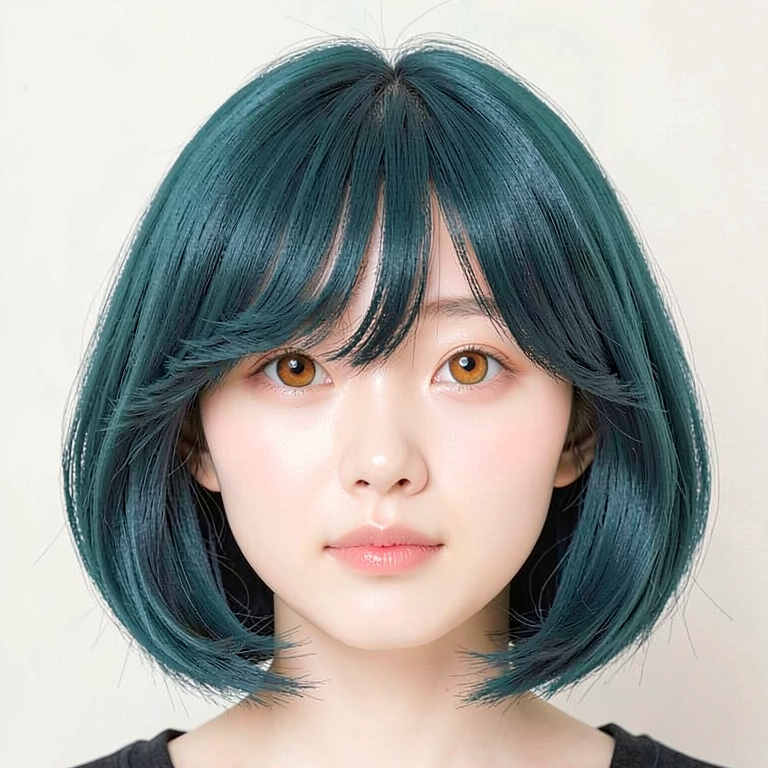
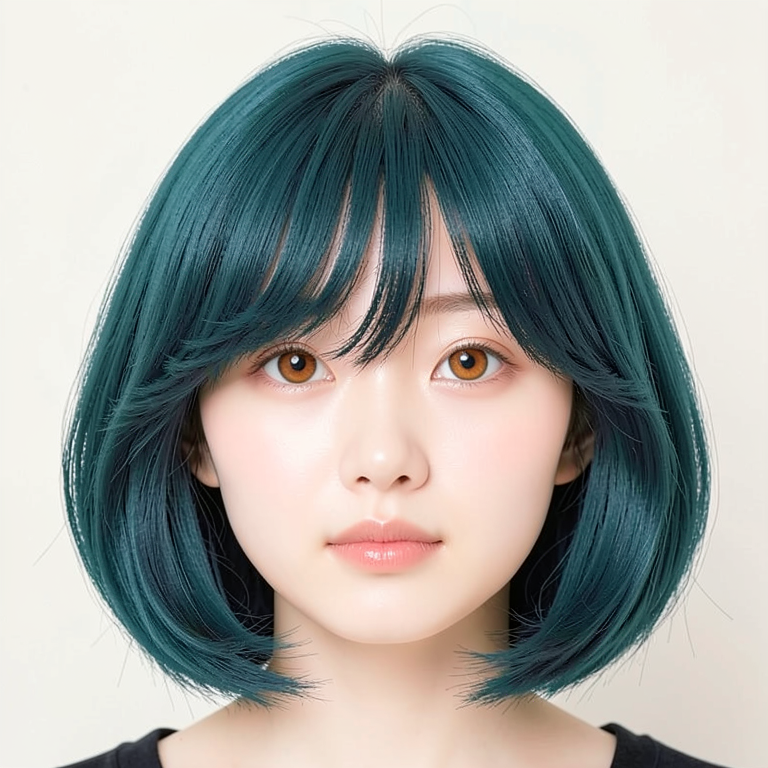
docs(p7-5-2): approve six-step front face reference

diff --git a/docs/assets/part-07/chapter-05/p7_5_2_generate_face_front_reference.py b/docs/assets/part-07/chapter-05/p7_5_2_generate_face_front_reference.py
@@ -54,12 +54,15 @@ def main() -> None:
         "--output-prefix",
         help="Filename prefix placed before the contract-hash, seed, and steps suffixes.",
     )
+    parser.add_argument("--steps", type=int, default=6, help="Number of FLUX denoising steps.")
     parser.add_argument("--preview-every", type=int, default=0, help="Save a decoded preview every N denoising steps; 0 disables previews.")
     args = parser.parse_args()
     if args.seed_count < 1:
         raise ValueError("seed-count must be at least 1")
     if args.seed_step == 0:
         raise ValueError("seed-step must not be zero")
+    if args.steps < 1:
+        raise ValueError("steps must be at least 1")
     if not torch.cuda.is_available():
         raise RuntimeError("CUDA is required")
     pipe = Flux2KleinPipeline.from_pretrained(
@@ -74,7 +77,12 @@ def main() -> None:
     prefix = args.output_prefix or "p7-5-2-face-front-with-hair-v3"
     for batch_index in range(args.seed_count):
         seed = first_seed + batch_index * args.seed_step
-        stem = candidate_stem(prefix, seed=seed, steps=12, contract={"model": MODEL_ID, "prompt": PROMPT, "size": [768, 768]})
+        stem = candidate_stem(
+            prefix,
+            seed=seed,
+            steps=args.steps,
+            contract={"model": MODEL_ID, "prompt": PROMPT, "size": [768, 768], "steps": args.steps},
+        )
         output = ROOT / f"{stem}-candidate.png"
         report = ROOT / f"{stem}-review.json"
         started = time.monotonic()
@@ -82,7 +90,7 @@ def main() -> None:
             prompt=PROMPT,
             width=768,
             height=768,
-            num_inference_steps=12,
+            num_inference_steps=args.steps,
             guidance_scale=1.0,
             generator=torch.Generator(device="cpu").manual_seed(seed),
             max_sequence_length=256,
@@ -101,6 +109,7 @@ def main() -> None:
                     "output_prefix": prefix,
                     "output": output.name,
                     "seed": seed,
+                    "steps": args.steps,
                     "prompt": PROMPT,
                     "prompt_word_count": prompt_word_count(PROMPT),
                     "references": [],

diff --git a/management/release-notes/sections/part-07/P7-5.2.md b/management/release-notes/sections/part-07/P7-5.2.md
@@ -5,7 +5,16 @@
 
 ### v2026.08.08
 
+- CodeFormer 구조 제거: 전용 복원·2배 확대 스크립트와 `codeformer-*-2x` 입력 의존을 제거했다. 방향 전신·전신 리파인·앨리웁·스토리보드 리파인은 사람 승인한 원본 얼굴 회전 시트를 직접 identity 입력으로 사용한다.
+- 정면 얼굴 기준 재승인: 공용 identity 계약의 양쪽 홍채·눈동자 대칭 조건을 적용해 `seed=62294`, 6 step으로 생성한 정면 얼굴을 사람 승인하고 `p7-5-2-face-front-reference.png` 안정 자산으로 교체했다. 승인 범위는 정면 얼굴 identity와 얼굴 회전의 대조점에 한정한다.
+- 얼굴 공용 identity 계약 설명: `p7-5-2-face-identity-contract.json`이 정면 얼굴·얼굴 턴어라운드·방향 전신·전신 리파인 생성기의 공용 텍스트 계약임을 원고에 추가했다. 턴어라운드 생성기는 공용 얼굴 특징을 JSON에서 읽고 패널별 시선·홍채 비율 검수 규칙만 자체 prompt에 유지하며, 실행 JSON에도 계약 파일명을 기록한다. PNG와 JSON 파일명에는 시드·step·stage와 모델·prompt·view·해상도·identity 계약의 짧은 해시를 함께 넣는다. 정면 인물 범위, 보이는 얼굴 특징, 후면 머리 특징, 정면 crop 경계의 역할을 분리하고, JSON 변경이 승인 PNG나 pose·camera 승인 범위를 자동으로 바꾸지 않는다고 명시했다.
+- 얼굴 턴어라운드 여섯 방향·2단계 identity 고정: 정면은 전용 생성기로 분리하고, 이 생성기는 카메라 기준의 좌·우 전면 쿼터·좌·우 엄격 측면·후면을 각각 `768×768` PNG로 출력한다. 정면까지 합쳐 여섯 방향 장면으로 관리한다. 기본 실행은 정면 얼굴 앵커로 방향·crop을 먼저 만들고, 그 중간 PNG와 같은 정면 얼굴 앵커를 다중 참조로 다시 넣어 visible-face identity를 보정한다. 후면은 rear-hair identity만 유지한다. `--stage direction`, `--stage identity --intermediate`로 단계별 검수가 가능하며, 두 단계 prompt도 계약 해시에 포함한다.
+- 얼굴 턴어라운드 step 계약: `--steps`로 layout 단계와 identity-fix 단계의 denoising 횟수를 함께 지정하도록 했다. step 값은 파일명·실행 JSON·계약 해시에 포함하며, 24-step 재생성본도 사람 검수 전에는 후보다.
+- FLUX 단계 미리보기: 얼굴 방향 생성기에 `--preview-interval 3`을 지정하면 방향·identity 보정 단계의 latent를 3 step마다 해독해 review-only PNG로 저장하고, 각 단계의 preview 목록을 실행 JSON에 기록한다. `0`으로 저장을 끌 수 있다.
+- 정면 얼굴 step 계약: 정면 얼굴 생성기도 `--steps`를 받아 실제 denoising 횟수를 파일명·계약 해시·실행 JSON에 함께 기록한다.
+- 정면 얼굴 기본 step: 사람 승인한 정면 기준과 이후 후보 생성의 기본값을 `6`으로 정리했다.
 - 소품·방향 전신 입력 보강: 전면 통합 착장 기준을 갱신하고, 생성기에는 승인한 크롭탑-허리선·가방·바지 PNG를 함께 입력해 높은 허리선과 자켓 바깥의 가방 스트랩을 확인하도록 했다. 방향 전신 생성기는 정면·전면 쿼터·측면·후면 각각에 대응하는 CodeFormer `2x` 얼굴 기준을 사용하도록 바꿨다. 새 전신 후보는 별도 사람 검수 대상이다.
+- 전신 리파인 다중참조 보강: 복장·가방 단계와 최종 identity 단계 모두에 방향별 CodeFormer `2x` 패널을 넣도록 바꿨다. 앞의 세 방향은 visible-face identity, 후면은 후두부 단발·헤어라인·목선만 위한 rear-head identity로 사용하며, 실행 JSON에는 단계별 적용 기준 파일명을 남긴다.
 - run `9794ed66`, seed `62377`의 정면 전신 얼굴·소품 리파인 PNG를 사람 승인하고 `p7-5-2-fullbody-front-refined-reference.png` 안정 자산으로 이름을 정리했다. 이 자산은 리파인 결과의 승인 사례이며, 기존 정면 전신 composition 기준을 대체하지 않는다.
 - seed `62377`의 전면 쿼터 전신 얼굴·소품 리파인 PNG를 사람 승인하고 `p7-5-2-fullbody-front-quarter-refined-reference.png` 안정 자산으로 이름을 정리했다. 이 자산은 기존 전면 쿼터 전신 composition 기준을 대체하지 않는다.
 - seed `62377`의 측면·후면 전신 얼굴·소품 리파인 PNG를 사람 승인하고 각각 `p7-5-2-fullbody-profile-refined-reference.png`, `p7-5-2-fullbody-rear-refined-reference.png` 안정 자산으로 이름을 정리했다. 네 방향 리파인 자산은 기존 방향 전신 composition 기준을 대체하지 않는다.
@@ -20,7 +29,7 @@
 - 방향 전신 생성기의 측면 prompt에 정면 기준의 deep viewer-right 옆가르마와 viewer-left 이마를 가로지르는 눈썹 위 짧은 앞머리, 끊기지 않는 헤어라인, 이마-눈썹 비례를 유지하고 빈·후퇴·절단된 이마선과 앞머리 갈라짐을 금지하는 계약을 추가했다. 리파인 생성기에는 이마선 보강을 넣지 않는다.
 - 소품 생성기의 `crop_top_waist_relation`은 입력 이미지를 쓰지 않고, 밑단을 갈비뼈 바로 아래로 올리고 허리선까지 `20cm` 맨살 띠를 남기는 ultra-short crop prompt 계약으로만 생성한다. 상의가 상복부·바지 허리선·골반까지 길어지는 출력을 금지한다.
 - seed `62294`로 다시 만든 크롭탑-허리선 후보를 사람 승인해 `p7-5-2-outfit-crop-top-waist-reference.png` 안정 자산으로 대체했다. 전면 자켓-크롭탑 레이어와 전면 통합 착장 후보는 이 승인 PNG를 크롭 길이 입력으로 사용하며, 크롭탑-허리선 후보 자체는 계속 prompt만으로 생성한다.
-- 무화풍 앨리웁 prompt에 청록 턱선 단발 유지와 포니테일·긴 머리 금지, 공·손·머리 분리, 전후 도약 다리와 두 신발의 전체 노출, 공-림 사이 열린 코트 공간을 추가했다. seed `62382` 후보는 별도 사람 검수 대상이다.
+- 무화풍 앨리웁 prompt에 청록 턱선 단발 유지와 포니테일·긴 머리 금지, 공·손·머리 분리, 전후 도약 다리와 두 신발의 전체 노출, 공-림 사이 열린 코트 공간을 추가했다. 공중 동작은 점프 정점에서 두 신발 아래에 빈 공간이 보이고 어느 발도 코트에 닿지 않는 계약으로 보강했다. seed `62382` 후보는 별도 사람 검수 대상이다.
 - 소품 생성기의 열 대상 seed를 모두 `62294`로 통일하고 같은 seed로 전체 후보를 재생성했다. 대상별 prompt·해상도는 유지하며, 같은 seed가 소품 간 동일한 결과를 뜻하지는 않는다.
 - 번역 반영 상태: 한국어 원문만 반영됨. 원문 기준 버전: `v2026.08.08`. 관련 자산: `p7-5-2-face-turnaround-reference.png`, `p7-5-2-fullbody-{front,front-quarter,profile,rear}-reference.png`, `p7_5_2_refine_fullbody_face_props.py`.
 
